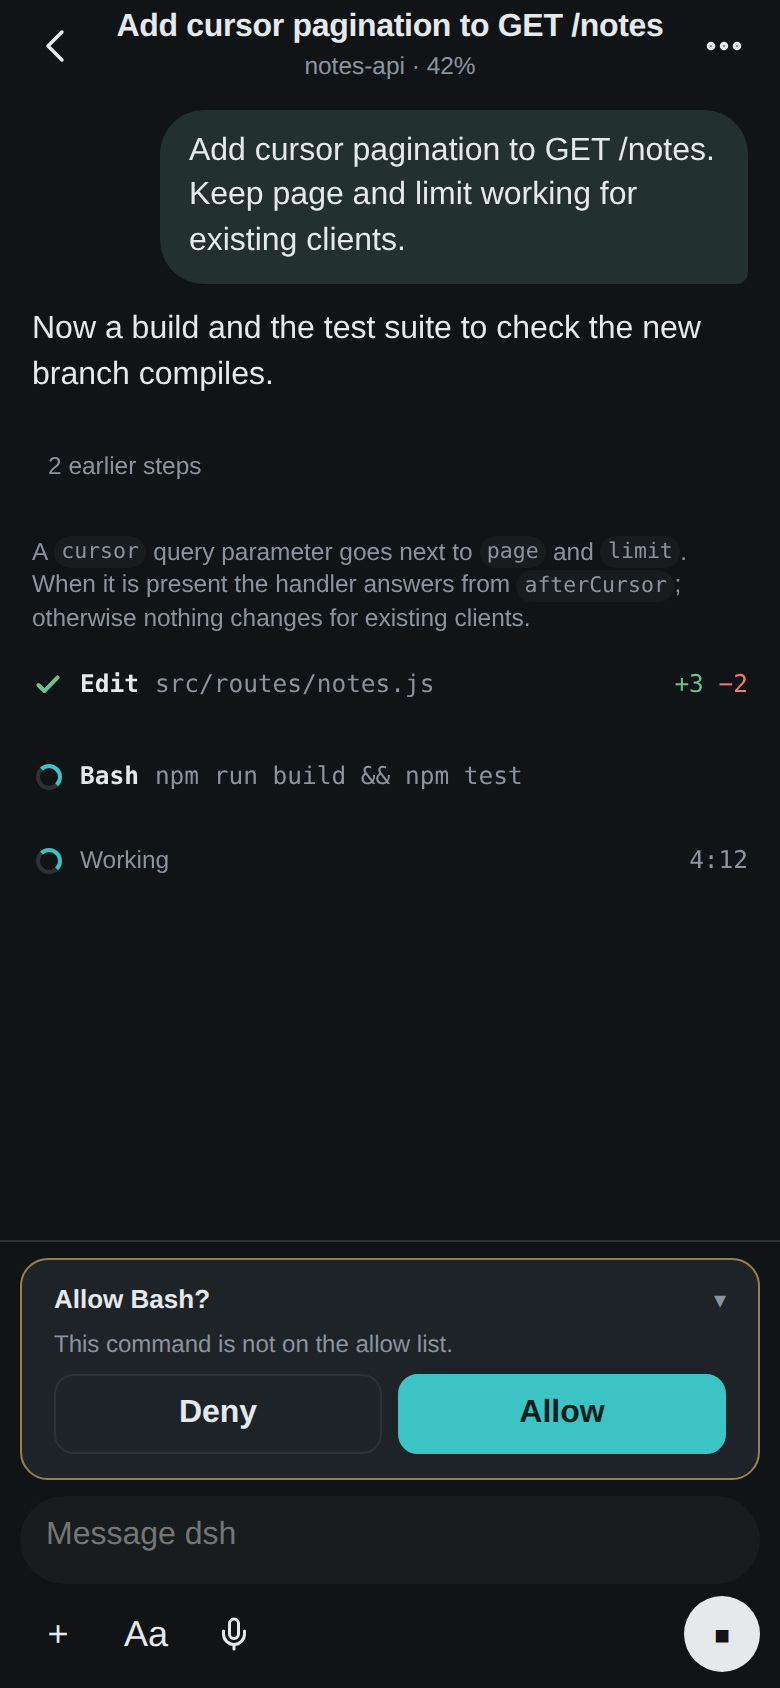
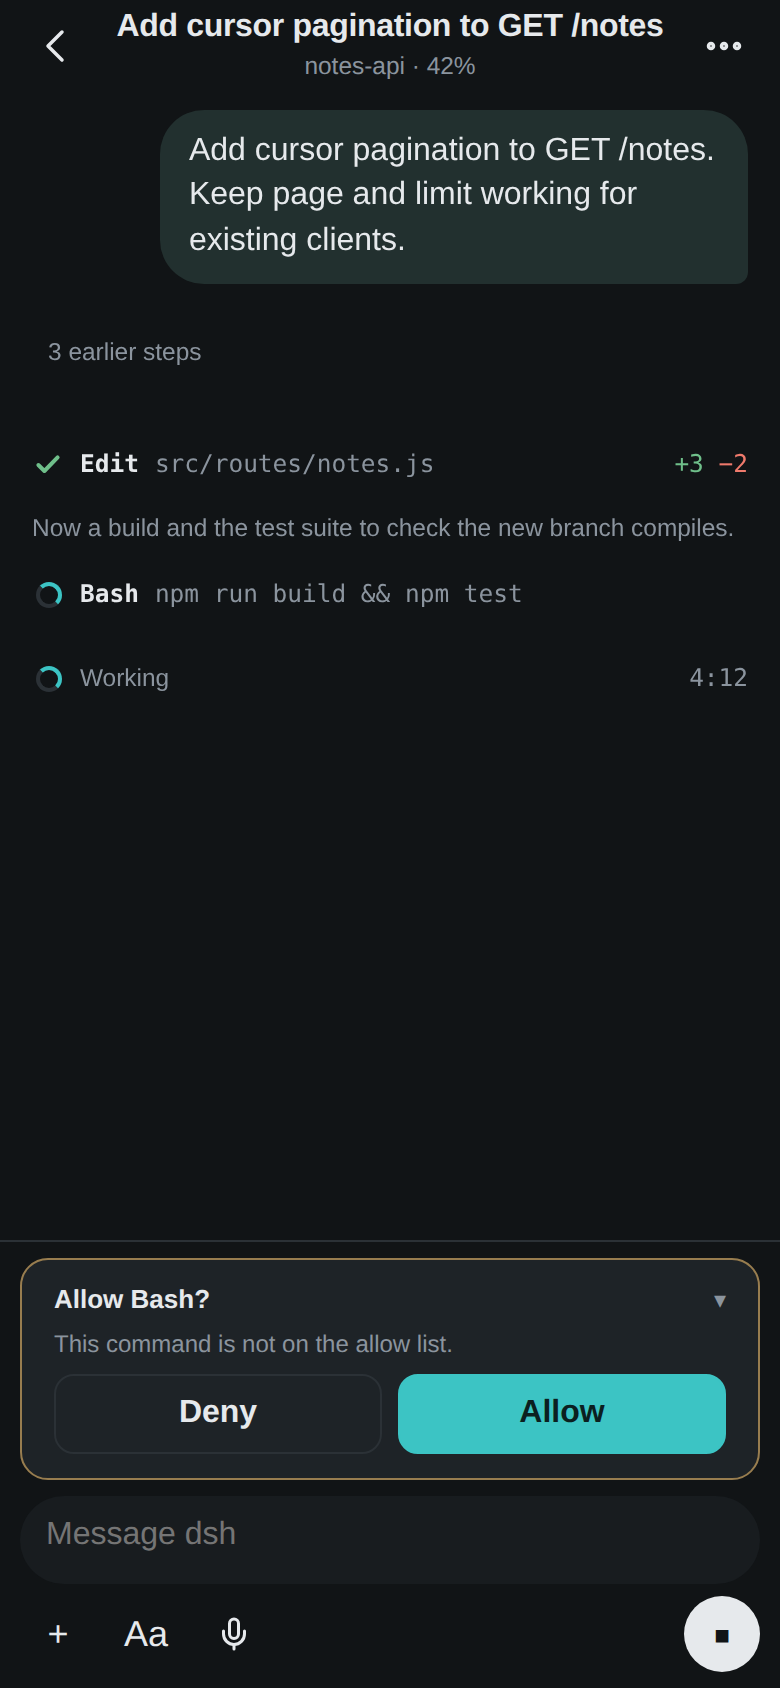
fix(ui): keep live narration out of the answer and no-result calls unticked
While a turn runs, text from before its last tool call is narration, so it stays in the
activity instead of standing in as the answer and jumping back on the next step. A call that
never reported a result keeps the neutral ring rather than the done tick, as the old summary
card's question mark did. Session details Refresh now says when it fails.

Found in an independent DeepSeek review of the receipt rework.

diff --git a/public/app.js b/public/app.js
@@ -1259,7 +1259,7 @@ const R = {
     const failed = !!t.isError
       || !!(terminal && ((typeof t.rview.exitCode === 'number' && t.rview.exitCode !== 0)
         || (typeof t.rview.signal === 'string' && !!t.rview.signal)));
-    const cls = t.done ? (failed ? 'err' : 'ok') : (t.orphan ? '' : 'run');
+    const cls = t.done ? (failed ? 'err' : t.orphan && !t.result ? '' : 'ok') : (t.orphan ? '' : 'run');
     t.el.className = 'tool ' + cls;
     const open = t.el.open;
     // dsh 0.1 attaches the presentation view to each event; dsh 0.2 rebuilds it in dsh02.js.
@@ -1291,7 +1291,9 @@ const R = {
       }
       delta = deltaEl(adds, dels);
     }
-    const glyph = statusGlyph(t.done ? (failed ? 'failed' : 'done') : (t.orphan ? 'idle' : 'run'), 'bullet');
+    // A call that never reported a result is not a success: it keeps the neutral ring.
+    const noResult = t.done && t.orphan && !t.result;
+    const glyph = statusGlyph(t.done ? (failed ? 'failed' : noResult ? 'idle' : 'done') : (t.orphan ? 'idle' : 'run'), 'bullet');
     const summary = h('summary', {}, glyph, h('span', { class: 'name' }, prettyTool(t.name)),
       failed ? h('span', { class: 'tool-failed' }, 'Failed') : null,
       h('span', { class: 'sum' }, sum), stat ? h('span', { class: 'stat' }, stat) : null, delta);
@@ -1363,7 +1365,9 @@ function turnView(T) {
   let answerItem = null;
   if (lastTool >= 0) {
     for (let i = items.length - 1; i > lastTool; i--) if (items[i].kind === 'text') { answerItem = items[i]; break; }
-    if (!answerItem) for (let i = lastTool - 1; i >= 0; i--) if (items[i].kind === 'text') { answerItem = items[i]; break; }
+    // Only a finished turn may promote text from before its last tool call: while it runs,
+    // that text is narration and would jump back into the activity on the next step.
+    if (!answerItem && T.done) for (let i = lastTool - 1; i >= 0; i--) if (items[i].kind === 'text') { answerItem = items[i]; break; }
   }
   const live = !T.done && T.liveText ? T.liveText : '';
   if (live) answerItem = null;
@@ -1992,6 +1996,7 @@ function renderSessionDetails(box = null) {
     onclick: async () => {
       refresh.disabled = true;
       try { await loadHistory(); renderSessionDetails(content); }
+      catch { toast('Could not refresh. Check the connection and try again.'); }
       finally { refresh.disabled = false; }
     },
   }, 'Refresh');
